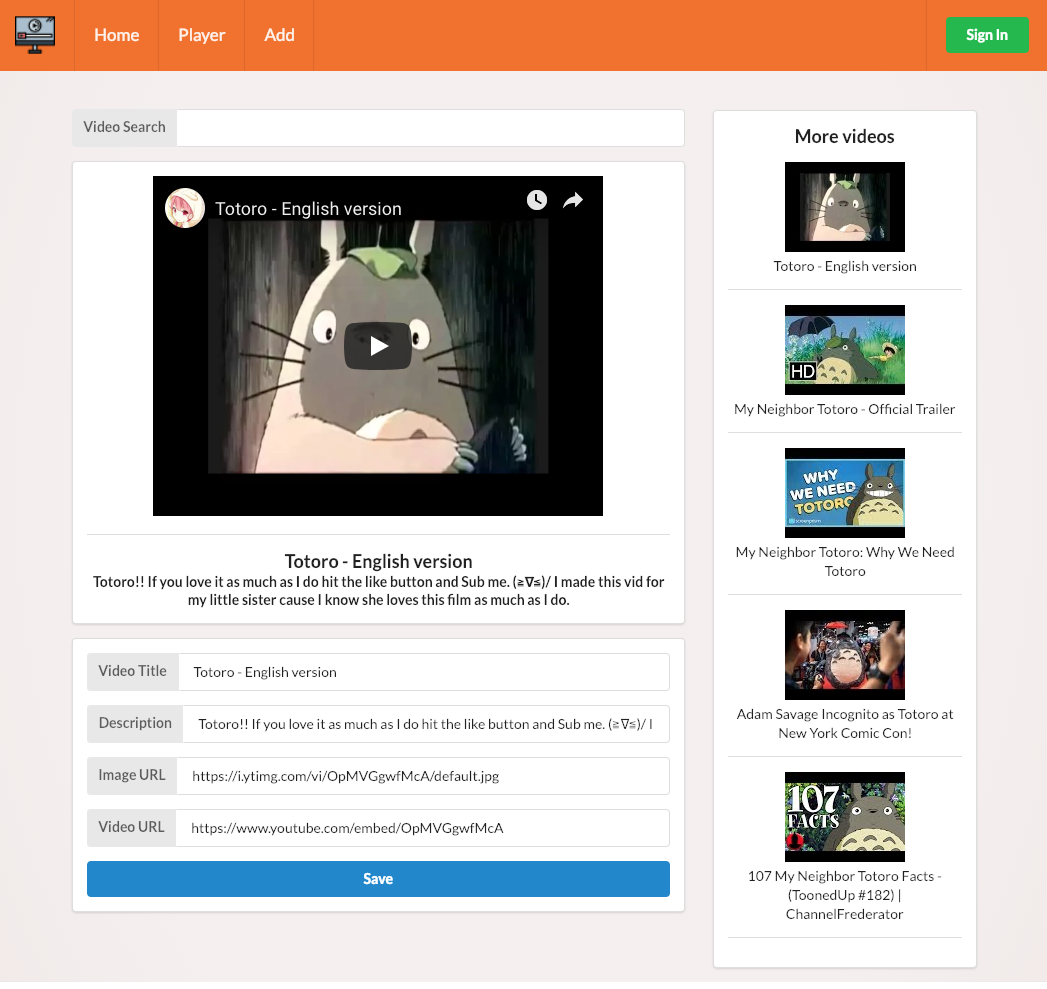
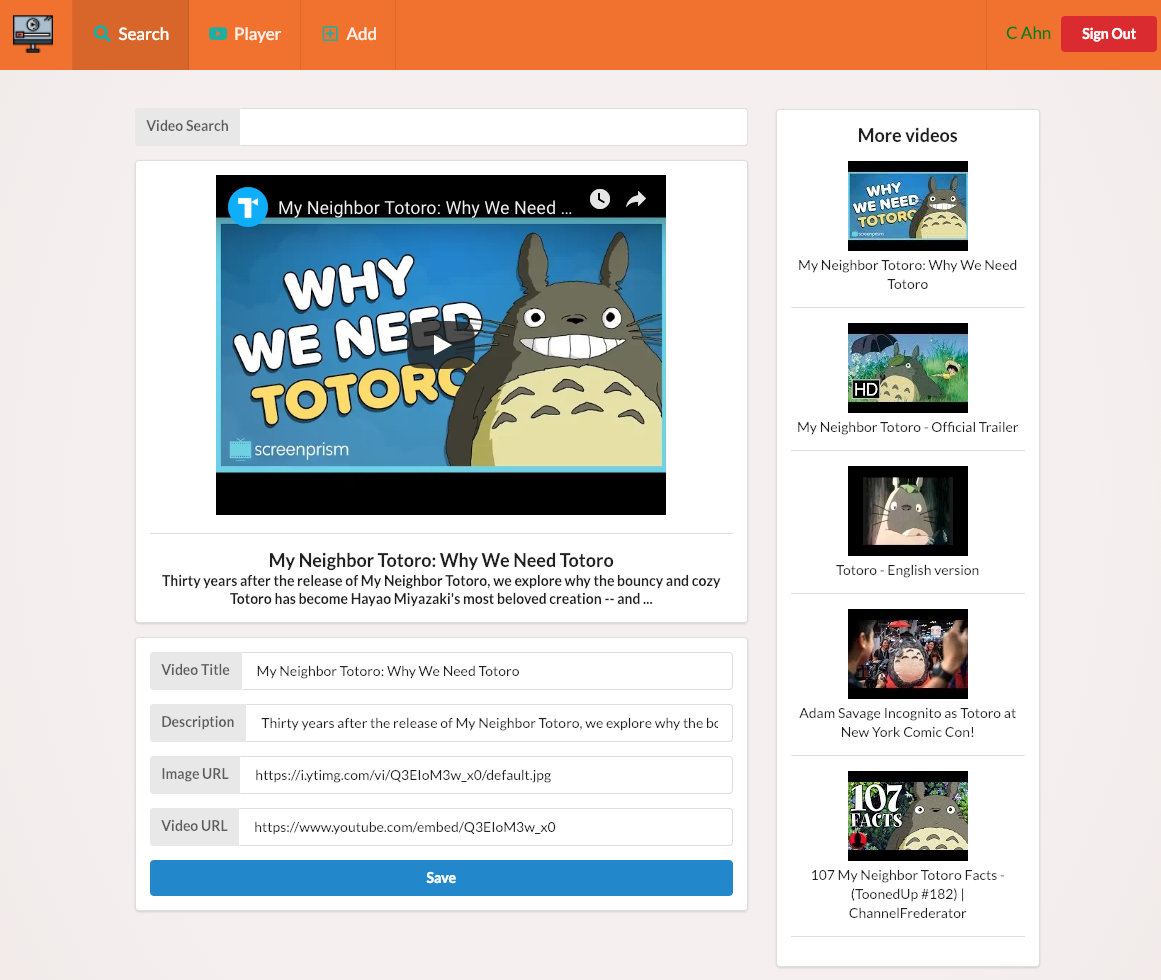
Readme update

diff --git a/README.md b/README.md
@@ -1,7 +1,14 @@
-## Youtube Video Collection App
+## Video Collection App
+
+This app is to collect videos links and store them in video library.   It comes with YouTube Search page which allows users to save videos links and info by one button click.   
+The built-in video play is pretty capable.  It can play many different video formats such that users are not bounded to store YouTube videos only.  "Add page" is to store non-Youtube link.  
+"Player" page is pretty fancy with many built-in features including searching videos from library
+
+  
 
 
-Add your own mongodb, create dev.js 
+To run it, add your own MongoDB, 
+and create dev.js 
 
 /src/config/dev.js
 ```javascript
@@ -9,10 +16,23 @@ module.exports = {
   mongoURI: 'own mongodb URL'
 };
 ````
+
 To run : 
 ___npm run dev___
+-------
+
+___Login___ 'Google OAuth2'
+
+ ___Search___  Google Youtube Search API
+ 
+___Front End___  React, Redux, Semantic UI
+
+___Back End___ Node, Express, MongoDB
 
 
+### Screenshots 
+**Home Page**
+![alt text](misc/home.png)
 
 **Main Search**
 ![alt text](misc/search.png)
@@ -20,7 +40,8 @@ ___npm run dev___
 **Player**
 ![alt text](misc/player.png)
 
-
+**Add**
+![alt text](misc/add.png)
 
 
 
